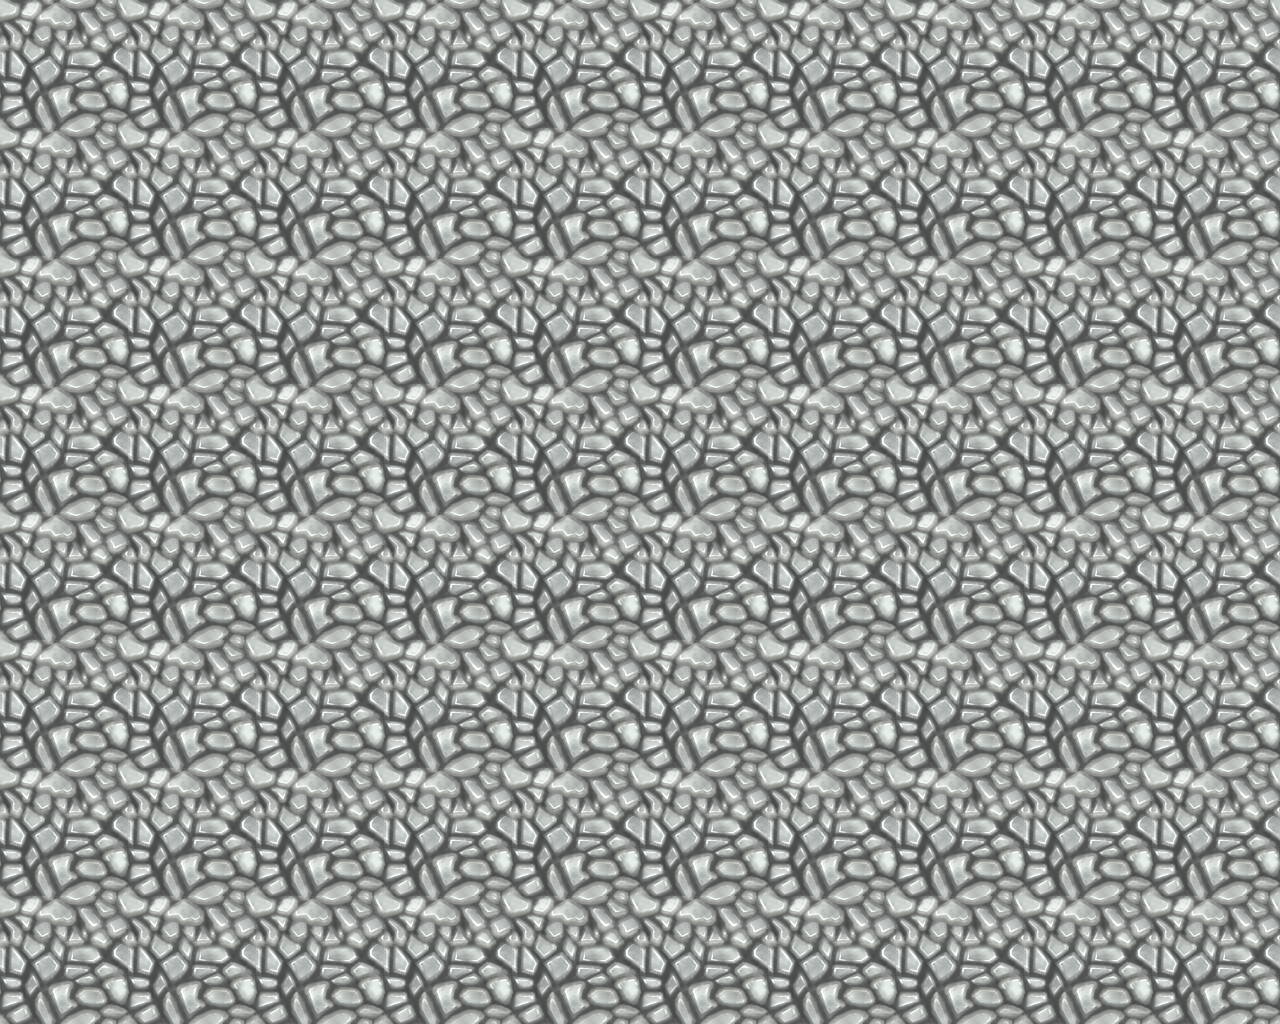
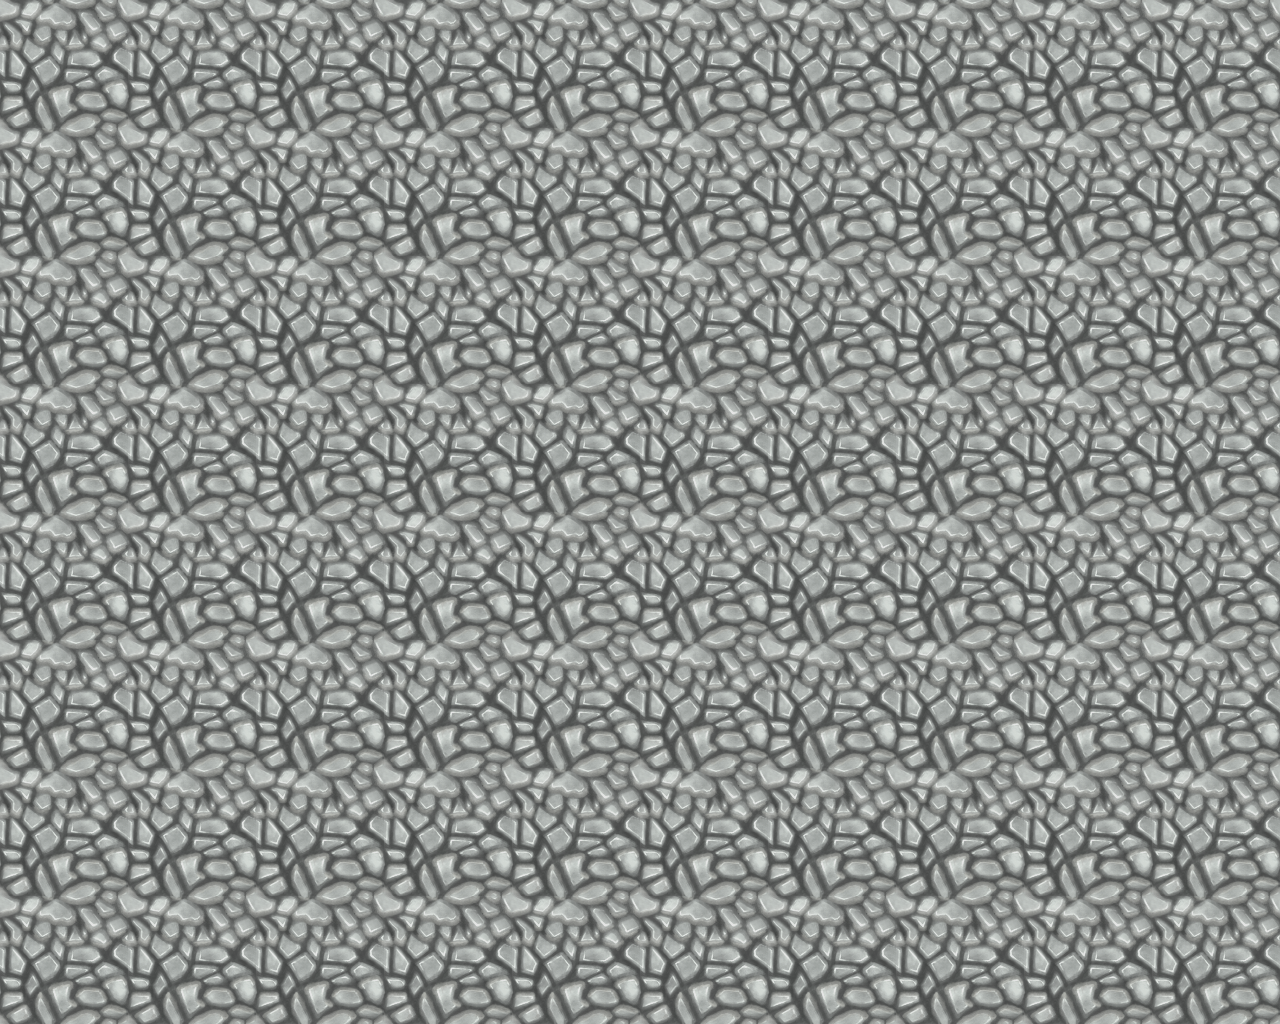
wall textures; walls and grounds now use top-left instead of center; also fixed wall glitch

diff --git a/src/mirrored/Level1.java b/src/mirrored/Level1.java
@@ -14,9 +14,9 @@ public class Level1 extends Level implements IEventListener {
 		physicsManager = new PhysicsManager();
 		
 		// level 1
-		addGround(gameWidth/2, gameHeight/4-50, gameWidth, 350);
-		addGround(gameWidth/2, (3*gameHeight/4), gameWidth, 350);
-		addGround(750, 375, 100, 100);
+		addGround(0, -25, gameWidth, 350);
+		addGround(0, 425, gameWidth, 400);
+		addGround(700, 325, 100, 100);
 		Switch switch1 = new Switch("switch1", 100, 600, this);
 		physicsManager.addTrigger(switch1);
 		switch1.addEventListener(this, Events.SWITCH);
@@ -25,11 +25,16 @@ public class Level1 extends Level implements IEventListener {
 		switch2.addEventListener(this, Events.SWITCH);		
 		
 		// boundaries 
-		addWall(gameWidth/2, gameHeight/2, 20, gameHeight);
-		addWall(0, gameHeight/2, 20, gameHeight);
-		addWall(gameWidth-5, gameHeight/2, 20, gameHeight);
-		addWall(gameWidth/2, 0, gameWidth, 20);
-		addWall(gameWidth/2, gameHeight-35, gameWidth, 20);
+		addWall(gameWidth/2-20, 0, 20, gameHeight);
+		addWall(0, 0, 20, gameHeight);
+		addWall(gameWidth-20, 0, 20, gameHeight);
+		addWall(0, 0, gameWidth, 20);
+		addWall(0, gameHeight-20, gameWidth, 20);
+//		addWall(gameWidth/2, gameHeight/2, 20, gameHeight);
+//		addWall(0, gameHeight/2, 20, gameHeight);
+//		addWall(gameWidth-5, gameHeight/2, 20, gameHeight);
+//		addWall(gameWidth/2, 0, gameWidth, 20);
+//		addWall(gameWidth/2, gameHeight-35, gameWidth, 20);
 
 		// players
 		Player player1 = new Player(false, (0.05) * gameWidth, 700, this);
@@ -108,7 +113,7 @@ public class Level1 extends Level implements IEventListener {
 				physicsManager.addTrigger(trap);
 			}
 			else if (obj.getId().equals("switch2")) {
-				addGround(250, 375, 100, 100);
+				addGround(200, 325, 100, 100);
 			}
 		}
 		if(event.getType().equals(Events.DEATH)) {

diff --git a/src/mirrored/Ground.java b/src/mirrored/Ground.java
@@ -1,25 +1,11 @@
 package mirrored;
 
-import java.awt.Graphics;
-
 import edu.virginia.engine.display.DisplayObjectContainer;
-import edu.virginia.engine.display.Sprite;
 
-public class Ground extends TiledSprite {
+public class Ground extends TexturedSprite {
 
 	public Ground(double x, double y, double width, double height, DisplayObjectContainer parent) {
-		super("ground", "floor_tiles.png");
+		super("ground", "floor_tiles.png", x, y, width, height);
 		parent.addChild(this);
-		setPosition(x, y);
-		setScale(width/getUnscaledWidth(), height/getUnscaledHeight());
-	}
-	
-	@Override
-	public void draw(Graphics g) {
-		int x1 = (int) (getX() - getPivotPoint().getX() * getScaleX());
-		int y1 = (int) (getY() - getPivotPoint().getY() * getScaleY());
-		int x2 = (int) (x1 + getWidth());
-		int y2 = (int) (y1 + getHeight());
-		g.drawImage(getDisplayImage(), x1, y1, x2, y2, x1, y1, x2, y2, null);
 	}
 }

diff --git a/src/mirrored/TexturedSprite.java b/src/mirrored/TexturedSprite.java
@@ -1,0 +1,39 @@
+package mirrored;
+
+import java.awt.Graphics;
+import java.awt.geom.Rectangle2D;
+
+import edu.virginia.engine.display.Sprite;
+
+public class TexturedSprite extends Sprite {
+
+	private double width, height;
+
+	public TexturedSprite(String id, String imageFileName, double x, double y, double width, double height) {
+		super(id, imageFileName);
+		setPosition(x, y);
+		setPivotPoint(0, 0);
+		this.width = width;
+		this.height = height;
+		setBBox(new Rectangle2D.Double(0, 0, width, height));
+	}
+
+	@Override
+	public double getWidth() {
+		return width;
+	}
+	
+	@Override
+	public double getHeight() {
+		return height;
+	}
+	
+	@Override
+	public void draw(Graphics g) {
+		int x1 = (int) getX();
+		int y1 = (int) getY();
+		int x2 = x1 + (int) width;
+		int y2 = y1 + (int) height;
+		g.drawImage(getDisplayImage(), x1, y1, x2, y2, x1, y1, x2, y2, null);
+	}
+}

diff --git a/src/mirrored/Wall.java b/src/mirrored/Wall.java
@@ -1,16 +1,13 @@
 package mirrored;
 
 import edu.virginia.engine.display.DisplayObjectContainer;
-import edu.virginia.engine.display.Sprite;
 import edu.virginia.engine.physics.PhysicsObject;
 
-public class Wall extends Sprite {
+public class Wall extends TexturedSprite {
 
 	public Wall(double x, double y, double width, double height, DisplayObjectContainer parent) {
-		super("platform", "platform.png");
+		super("platform", "wall_tiles.png", x, y, width, height);
 		parent.addChild(this);
-		setPosition(x, y);
-		setScale(width/getUnscaledWidth(), height/getUnscaledHeight());
 		addPhysics(PhysicsObject.STATIC, 0);
 	}
 }

diff --git a/src/mirrored/Main.java b/src/mirrored/Main.java
@@ -18,7 +18,8 @@ public class Main extends Game {
 	private static Main instance;
 
 	public Main() {
-		super("Prototype", gameWidth, gameHeight);
+		// Added window border padding
+		super("Prototype", gameWidth + 6, gameHeight + 29);
 		instance = this;
 
 		levels = Arrays.asList(Level1.class, Level1.class);
@@ -52,6 +53,10 @@ public class Main extends Game {
 	
 	public void resetLevel() {
 		setLevel(level.getClass());
+	}
+	
+	public PhysicsManager getPhysicsManager() {
+		return physicsMan;
 	}
 	
 	public static Main getInstance() {

diff --git a/src/edu/virginia/engine/physics/PhysicsManager.java b/src/edu/virginia/engine/physics/PhysicsManager.java
@@ -47,6 +47,9 @@ public class PhysicsManager {
 	}
 
 	private static void handleCollision(PhysicsObject object1, PhysicsObject object2) {
+		if (object1.isStatic() && object2.isStatic()) {
+			return; // ignore collisions on static objects
+		}
 		Point2D disp = resolveCollision(object1, object2);
 		if (fullCollisions) {
 			if (object1.isStatic()) {
